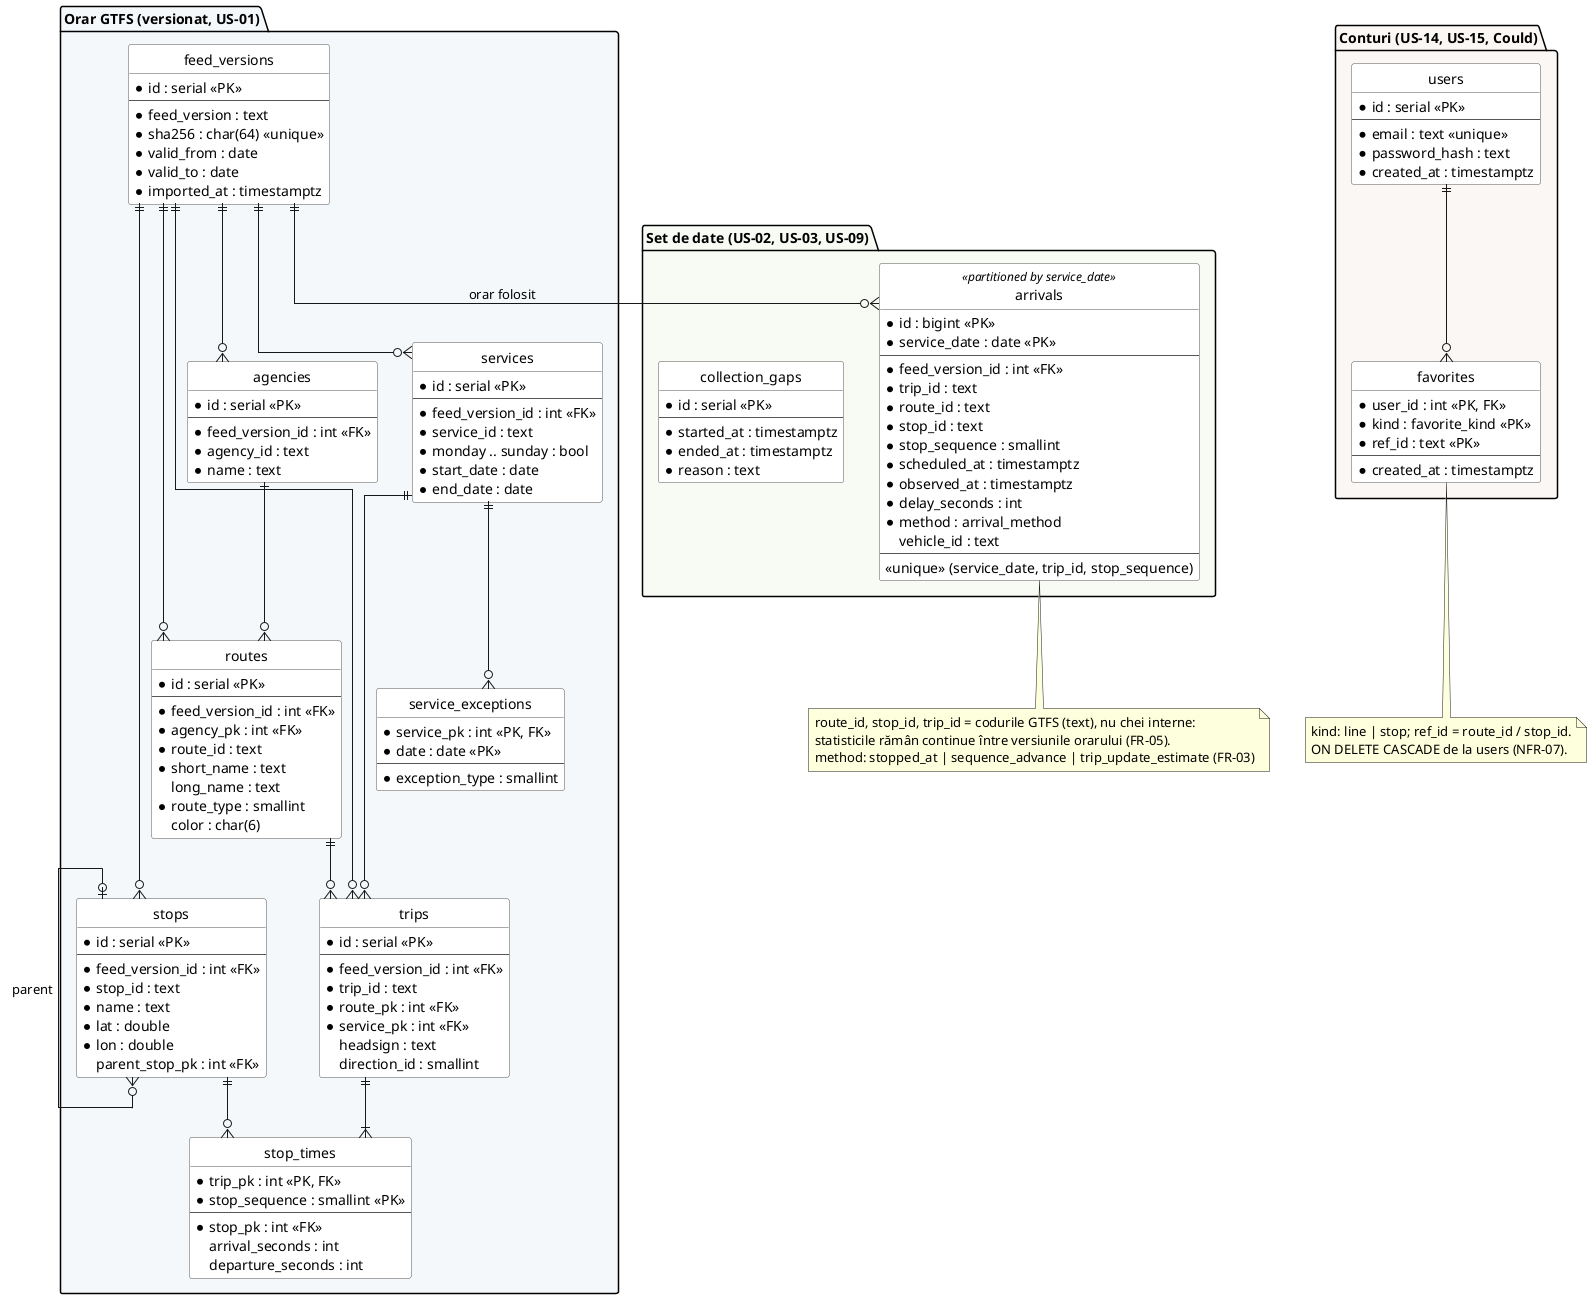
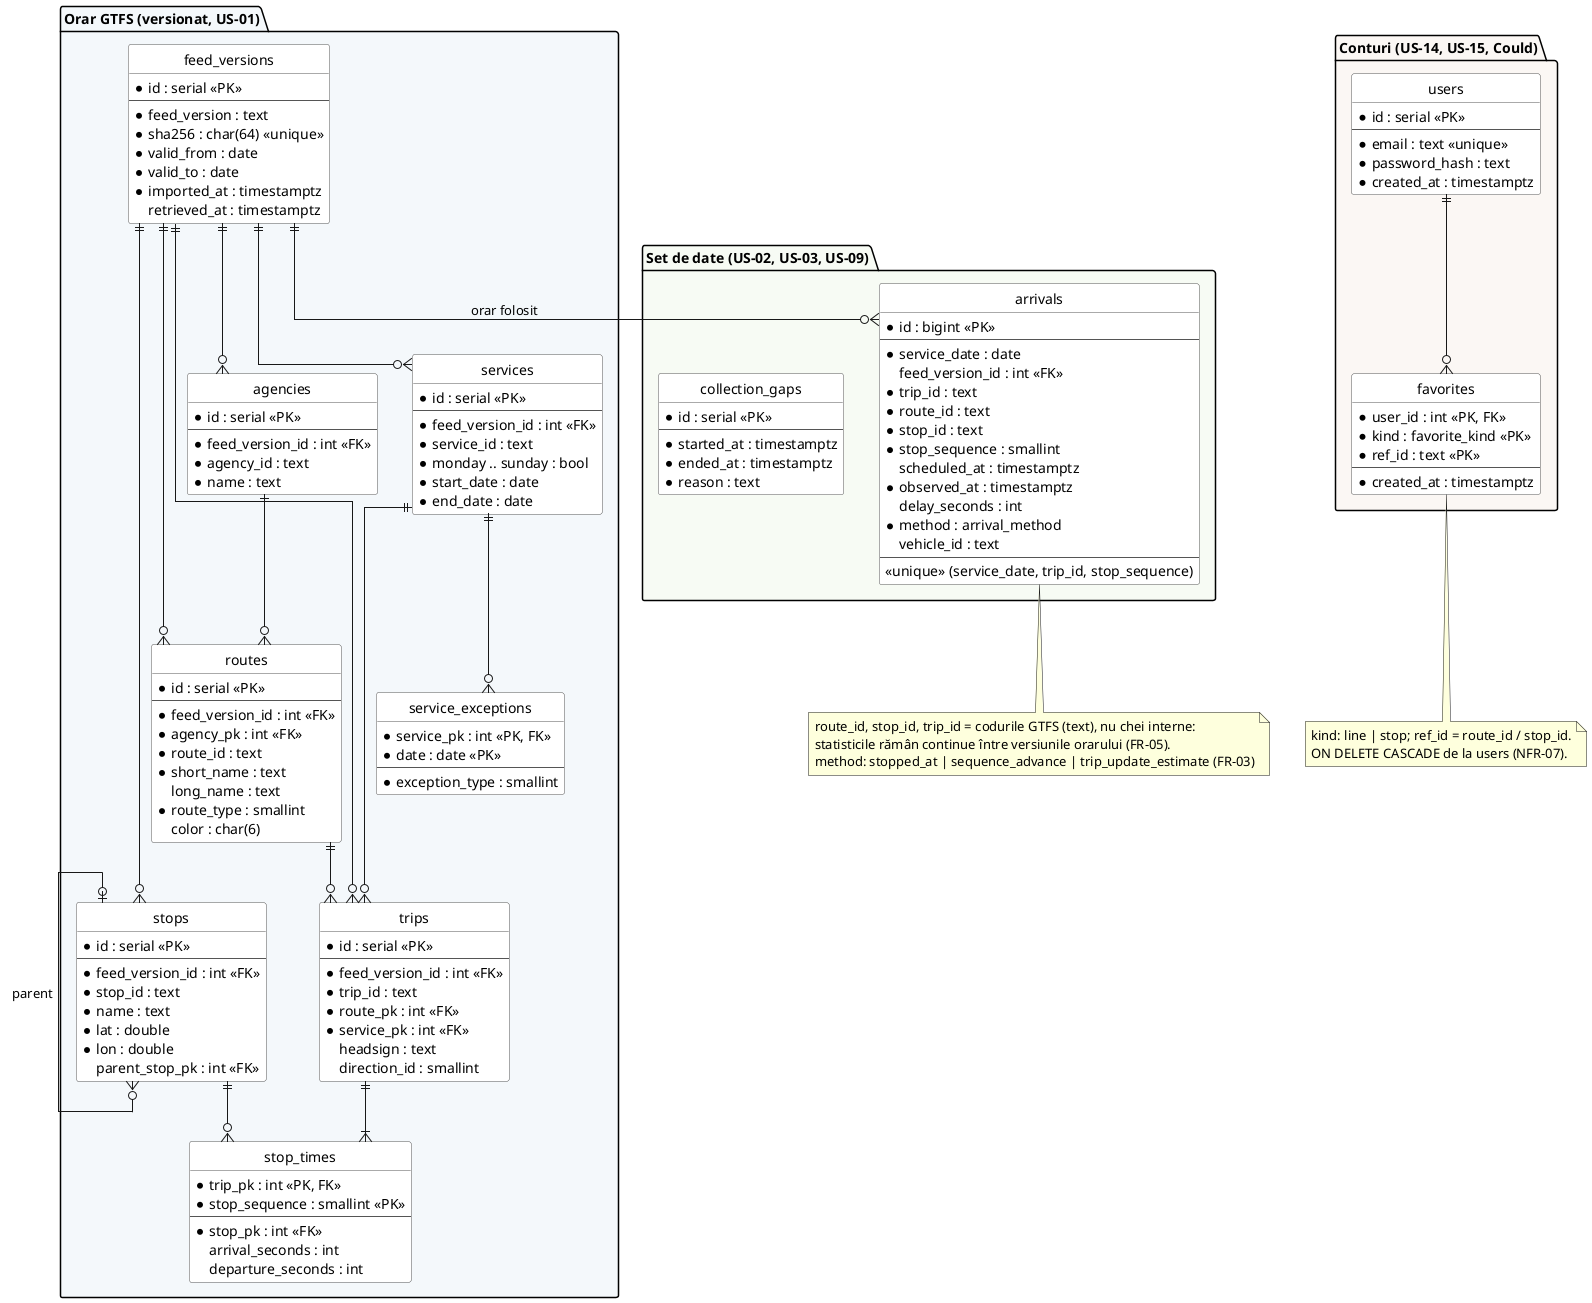
chore(db): migration 0003 with arrivals table and feed_versions.retrieved_at
arrivals: one row per (service_date, trip_id, stop_sequence), not
partitioned for now; delay columns are filled later by US-03.
retrieved_at: download time of the archive, used to pick the schedule
version valid on a given day (TPBI reuses version names and dates).

Records PO decisions 2, 5, 6, 7 in model-date.md (to be confirmed by the
team at Sprint Planning). down_revision is 0001 until PR #29 (0002) merges.

diff --git a/backend/alembic/versions/0003_arrivals.py b/backend/alembic/versions/0003_arrivals.py
@@ -1,0 +1,61 @@
+"""Arrivals table and feed_versions.retrieved_at (US-02a, US-03).
+
+- arrivals: one row per (service_date, trip_id, stop_sequence); not
+  partitioned for now (decision 2 in docs/model-date.md, section 5).
+- feed_versions.retrieved_at: when the collector downloaded the archive;
+  picks the schedule version valid on a given day (decision 5).
+
+NOTE: down_revision is 0001 because 0002 (stop search, PR #29) is not merged
+yet. After it is merged, change down_revision to "0002".
+
+Revision ID: 0003
+Revises: 0001
+Create Date: 2026-11-16 18:22:04.038146
+
+"""
+from typing import Sequence, Union
+
+from alembic import op
+import sqlalchemy as sa
+
+
+# revision identifiers, used by Alembic.
+revision: str = '0003'
+down_revision: Union[str, Sequence[str], None] = '0001'
+branch_labels: Union[str, Sequence[str], None] = None
+depends_on: Union[str, Sequence[str], None] = None
+
+
+def upgrade() -> None:
+    """Upgrade schema."""
+    op.create_table('arrivals',
+    sa.Column('id', sa.BigInteger(), nullable=False),
+    sa.Column('service_date', sa.Date(), nullable=False),
+    sa.Column('trip_id', sa.Text(), nullable=False),
+    sa.Column('route_id', sa.Text(), nullable=False),
+    sa.Column('stop_id', sa.Text(), nullable=False),
+    sa.Column('stop_sequence', sa.SmallInteger(), nullable=False),
+    sa.Column('observed_at', sa.DateTime(timezone=True), nullable=False),
+    sa.Column('method', sa.Enum('stopped_at', 'sequence_advance', 'trip_update_estimate', name='arrival_method'), nullable=False),
+    sa.Column('vehicle_id', sa.Text(), nullable=True),
+    sa.Column('feed_version_id', sa.Integer(), nullable=True),
+    sa.Column('scheduled_at', sa.DateTime(timezone=True), nullable=True),
+    sa.Column('delay_seconds', sa.Integer(), nullable=True),
+    sa.ForeignKeyConstraint(['feed_version_id'], ['feed_versions.id'], ondelete='SET NULL'),
+    sa.PrimaryKeyConstraint('id'),
+    sa.UniqueConstraint('service_date', 'trip_id', 'stop_sequence')
+    )
+    op.create_index('ix_arrivals_route_day', 'arrivals', ['route_id', 'service_date'], unique=False)
+    op.create_index('ix_arrivals_stop_day', 'arrivals', ['stop_id', 'service_date'], unique=False)
+    op.add_column('feed_versions', sa.Column('retrieved_at', sa.DateTime(timezone=True), nullable=True))
+    op.create_index(op.f('ix_feed_versions_retrieved_at'), 'feed_versions', ['retrieved_at'], unique=False)
+
+
+def downgrade() -> None:
+    """Downgrade schema."""
+    op.drop_index(op.f('ix_feed_versions_retrieved_at'), table_name='feed_versions')
+    op.drop_column('feed_versions', 'retrieved_at')
+    op.drop_index('ix_arrivals_stop_day', table_name='arrivals')
+    op.drop_index('ix_arrivals_route_day', table_name='arrivals')
+    op.drop_table('arrivals')
+    sa.Enum(name='arrival_method').drop(op.get_bind(), checkfirst=True)

diff --git a/backend/app/models/arrivals.py b/backend/app/models/arrivals.py
@@ -1,0 +1,52 @@
+"""Observed arrivals (US-02, US-03). See docs/model-date.md, section 2.2.
+
+GTFS codes are stored as text, not as keys into the schedule tables, so the
+statistics of a line or stop stay continuous across schedule versions.
+"""
+
+from datetime import date, datetime
+
+from sqlalchemy import (
+    BigInteger,
+    Date,
+    DateTime,
+    Enum,
+    ForeignKey,
+    Index,
+    Integer,
+    SmallInteger,
+    Text,
+    UniqueConstraint,
+)
+from sqlalchemy.orm import Mapped, mapped_column
+
+from app.db import Base
+
+ARRIVAL_METHODS = ("stopped_at", "sequence_advance", "trip_update_estimate")
+
+
+class Arrival(Base):
+    __tablename__ = "arrivals"
+    __table_args__ = (
+        # one arrival per (service day, trip, stop): reprocessing adds nothing
+        UniqueConstraint("service_date", "trip_id", "stop_sequence"),
+        Index("ix_arrivals_route_day", "route_id", "service_date"),
+        Index("ix_arrivals_stop_day", "stop_id", "service_date"),
+    )
+
+    id: Mapped[int] = mapped_column(BigInteger, primary_key=True)
+    service_date: Mapped[date] = mapped_column(Date, nullable=False)
+    trip_id: Mapped[str] = mapped_column(Text, nullable=False)
+    route_id: Mapped[str] = mapped_column(Text, nullable=False)
+    stop_id: Mapped[str] = mapped_column(Text, nullable=False)
+    stop_sequence: Mapped[int] = mapped_column(SmallInteger, nullable=False)
+    observed_at: Mapped[datetime] = mapped_column(DateTime(timezone=True), nullable=False)
+    method: Mapped[str] = mapped_column(Enum(*ARRIVAL_METHODS, name="arrival_method"), nullable=False)
+    vehicle_id: Mapped[str | None] = mapped_column(Text)
+
+    # Filled by the delay calculation (US-03); empty right after detection.
+    feed_version_id: Mapped[int | None] = mapped_column(
+        ForeignKey("feed_versions.id", ondelete="SET NULL")
+    )
+    scheduled_at: Mapped[datetime | None] = mapped_column(DateTime(timezone=True))
+    delay_seconds: Mapped[int | None] = mapped_column(Integer)

diff --git a/backend/app/models/gtfs.py b/backend/app/models/gtfs.py
@@ -43,6 +43,10 @@ class FeedVersion(Base):
     imported_at: Mapped[datetime] = mapped_column(
         DateTime(timezone=True), nullable=False, server_default=func.now()
     )
+    # When the collector downloaded this archive (from its file name). TPBI
+    # republishes changed timetables with the same version and dates, so this
+    # is what tells which version applied on a given day (migration 0003).
+    retrieved_at: Mapped[datetime | None] = mapped_column(DateTime(timezone=True), index=True)
 
 
 class Agency(Base):

diff --git a/backend/app/models/__init__.py b/backend/app/models/__init__.py
@@ -1,5 +1,6 @@
 """ORM models. Importing this package registers every table on Base.metadata."""
 
+from app.models.arrivals import Arrival
 from app.models.gtfs import (
     Agency,
     FeedVersion,
@@ -13,6 +14,7 @@ from app.models.gtfs import (
 
 __all__ = [
     "Agency",
+    "Arrival",
     "FeedVersion",
     "Route",
     "Service",

diff --git a/docs/model-date.md b/docs/model-date.md
@@ -37,7 +37,7 @@ Constrângerea unică `(service_date, trip_id, stop_sequence)` garantează crite
 
 ### 1.5 Partiționare după dată
 
-`arrivals` este partiționat lunar după `service_date` (NFR-05). Volum estimat din orarul actual (fără metrou): ~600 000 de opriri programate într-o zi lucrătoare, ~405 000 sâmbăta sau duminica, deci până la ~18 milioane de înregistrări pe lună (~100 MB pe zi cu indexuri). Interogările pe un interval citesc doar partițiile necesare (NFR-04).
+Propunerea inițială: `arrivals` partiționat lunar după `service_date` (NFR-05); amânată, vezi decizia 2 din secțiunea 5. Volum estimat din orarul actual (fără metrou): ~600 000 de opriri programate într-o zi lucrătoare, ~405 000 sâmbăta sau duminica, deci până la ~18 milioane de înregistrări pe lună (~100 MB pe zi cu indexuri). Interogările pe un interval citesc doar partițiile necesare (NFR-04).
 
 ## 2. Tabele
 
@@ -45,7 +45,7 @@ Constrângerea unică `(service_date, trip_id, stop_sequence)` garantează crite
 
 | Tabel | Sursă GTFS | Observații |
 |---|---|---|
-| `feed_versions` | `feed_info.txt`, arhiva | `sha256` unic: aceeași arhivă nu se importă de două ori. `valid_from` / `valid_to` din `calendar.txt`. |
+| `feed_versions` | `feed_info.txt`, arhiva | `sha256` unic: aceeași arhivă nu se importă de două ori. `valid_from` / `valid_to` din `calendar.txt`. `retrieved_at` din numele fișierului salvat de colector (decizia 5). |
 | `agencies` | `agency.txt` | STB, STV, STCM, Regio Serv, Metrorex |
 | `routes` | `routes.txt` | `route_type`: 0 tramvai, 3 autobuz, 11 troleibuz, 1 metrou |
 | `stops` | `stops.txt` | `parent_stop_pk` pentru stațiile cu mai multe peroane |
@@ -64,12 +64,12 @@ Nu se importă: `shapes.txt` (eventual mai târziu, pentru harta din US-12), tar
 |---|---|---|
 | `id` | bigint | identificator |
 | `service_date` | date | ziua de serviciu (`start_date` din GTFS-RT) |
-| `feed_version_id` | int | versiunea de orar folosită |
+| `feed_version_id` | int | versiunea de orar folosită (completată la calculul întârzierii, US-03) |
 | `trip_id`, `route_id`, `stop_id` | text | coduri GTFS |
 | `stop_sequence` | smallint | poziția stației în cursă |
-| `scheduled_at` | timestamptz | ora programată |
+| `scheduled_at` | timestamptz | ora programată (US-03) |
 | `observed_at` | timestamptz | ora reală (detectată) |
-| `delay_seconds` | int | `observed_at - scheduled_at`; negativ = mai devreme |
+| `delay_seconds` | int | `observed_at - scheduled_at`; negativ = mai devreme (US-03) |
 | `method` | enum | `stopped_at`, `sequence_advance`, `trip_update_estimate` (FR-03) |
 | `vehicle_id` | text | vehiculul (opțional) |
 
@@ -100,9 +100,14 @@ Incluse în diagramă pentru imaginea completă; se creează doar dacă povești
 | `collection_gaps` | FR-06 | US-09 |
 | `users`, `favorites` | FR-17, FR-18, NFR-06, NFR-07 | US-14, US-15 |
 
-## 5. De decis de echipă
+## 5. Decizii
 
-1. **Pragul pentru goluri de date:** 60 s (propunere) sau altă valoare.
-2. **Partiționarea:** lunară (propunere) sau deloc la început, adăugată când volumul o cere.
-3. **Zilele de sărbătoare:** orarul actual nu are `calendar_dates`, deci pentru 30.11, 1.12, 25-26.12 și 1-2.01 orarul declarat poate diferi de cel real. Propunere: marcarea acestor zile și excluderea lor din statistici (sau afișarea separată).
-4. **Unde rulează baza de date:** pe VPS, discul de 38 GB este folosit deja de arhiva brută (T-02). La ~100 MB pe zi, `arrivals` mai adaugă câțiva GB până la prezentarea finală. De decis împreună cu T-02.
+Deciziile 2, 5, 6 și 7 au fost luate de PO pe 16.11.2026 (necesare pentru US-02a și US-03), de confirmat de echipă la Sprint Planning (17.11.2026). Deciziile 1, 3 și 4 rămân deschise.
+
+1. **Pragul pentru goluri de date:** 60 s (propunere) sau altă valoare. *Deschis.*
+2. **Partiționarea:** ~~lunară~~ **deloc la început.** `arrivals` este un tabel simplu cu indexuri pe `(route_id, service_date)` și `(stop_id, service_date)`; partiționarea se adaugă când volumul o cere.
+3. **Zilele de sărbătoare:** orarul actual nu are `calendar_dates`, deci pentru 30.11, 1.12, 25-26.12 și 1-2.01 orarul declarat poate diferi de cel real. Propunere: marcarea acestor zile și excluderea lor din statistici (sau afișarea separată). *Deschis.*
+4. **Unde rulează baza de date:** pe VPS, discul de 38 GB este folosit deja de arhiva brută (T-02). La ~100 MB pe zi, `arrivals` mai adaugă câțiva GB până la prezentarea finală. De decis împreună cu T-02. *Deschis.*
+5. **Versiunea de orar valabilă într-o zi:** TPBI republică orarul modificat cu aceeași versiune și aceleași date de valabilitate (3 din 4 arhive se numesc `6.41`, toate valabile 07.10.2026 - 05.01.2027). **Decizie:** `feed_versions.retrieved_at` = momentul descărcării de către colector (din numele fișierului); o versiune se aplică de la descărcare până la următoarea.
+6. **Pragul pentru pozițiile vechi (US-02a):** **120 s.** Pozițiile raportate de vehicul cu mai mult de 120 s înainte de interogare sunt ignorate.
+7. **Prioritatea US-02b:** pe o oră reală, doar ~1,7% din trecerile între stații sar o stație. **Decizie:** US-02b coboară după US-08 (Should).
